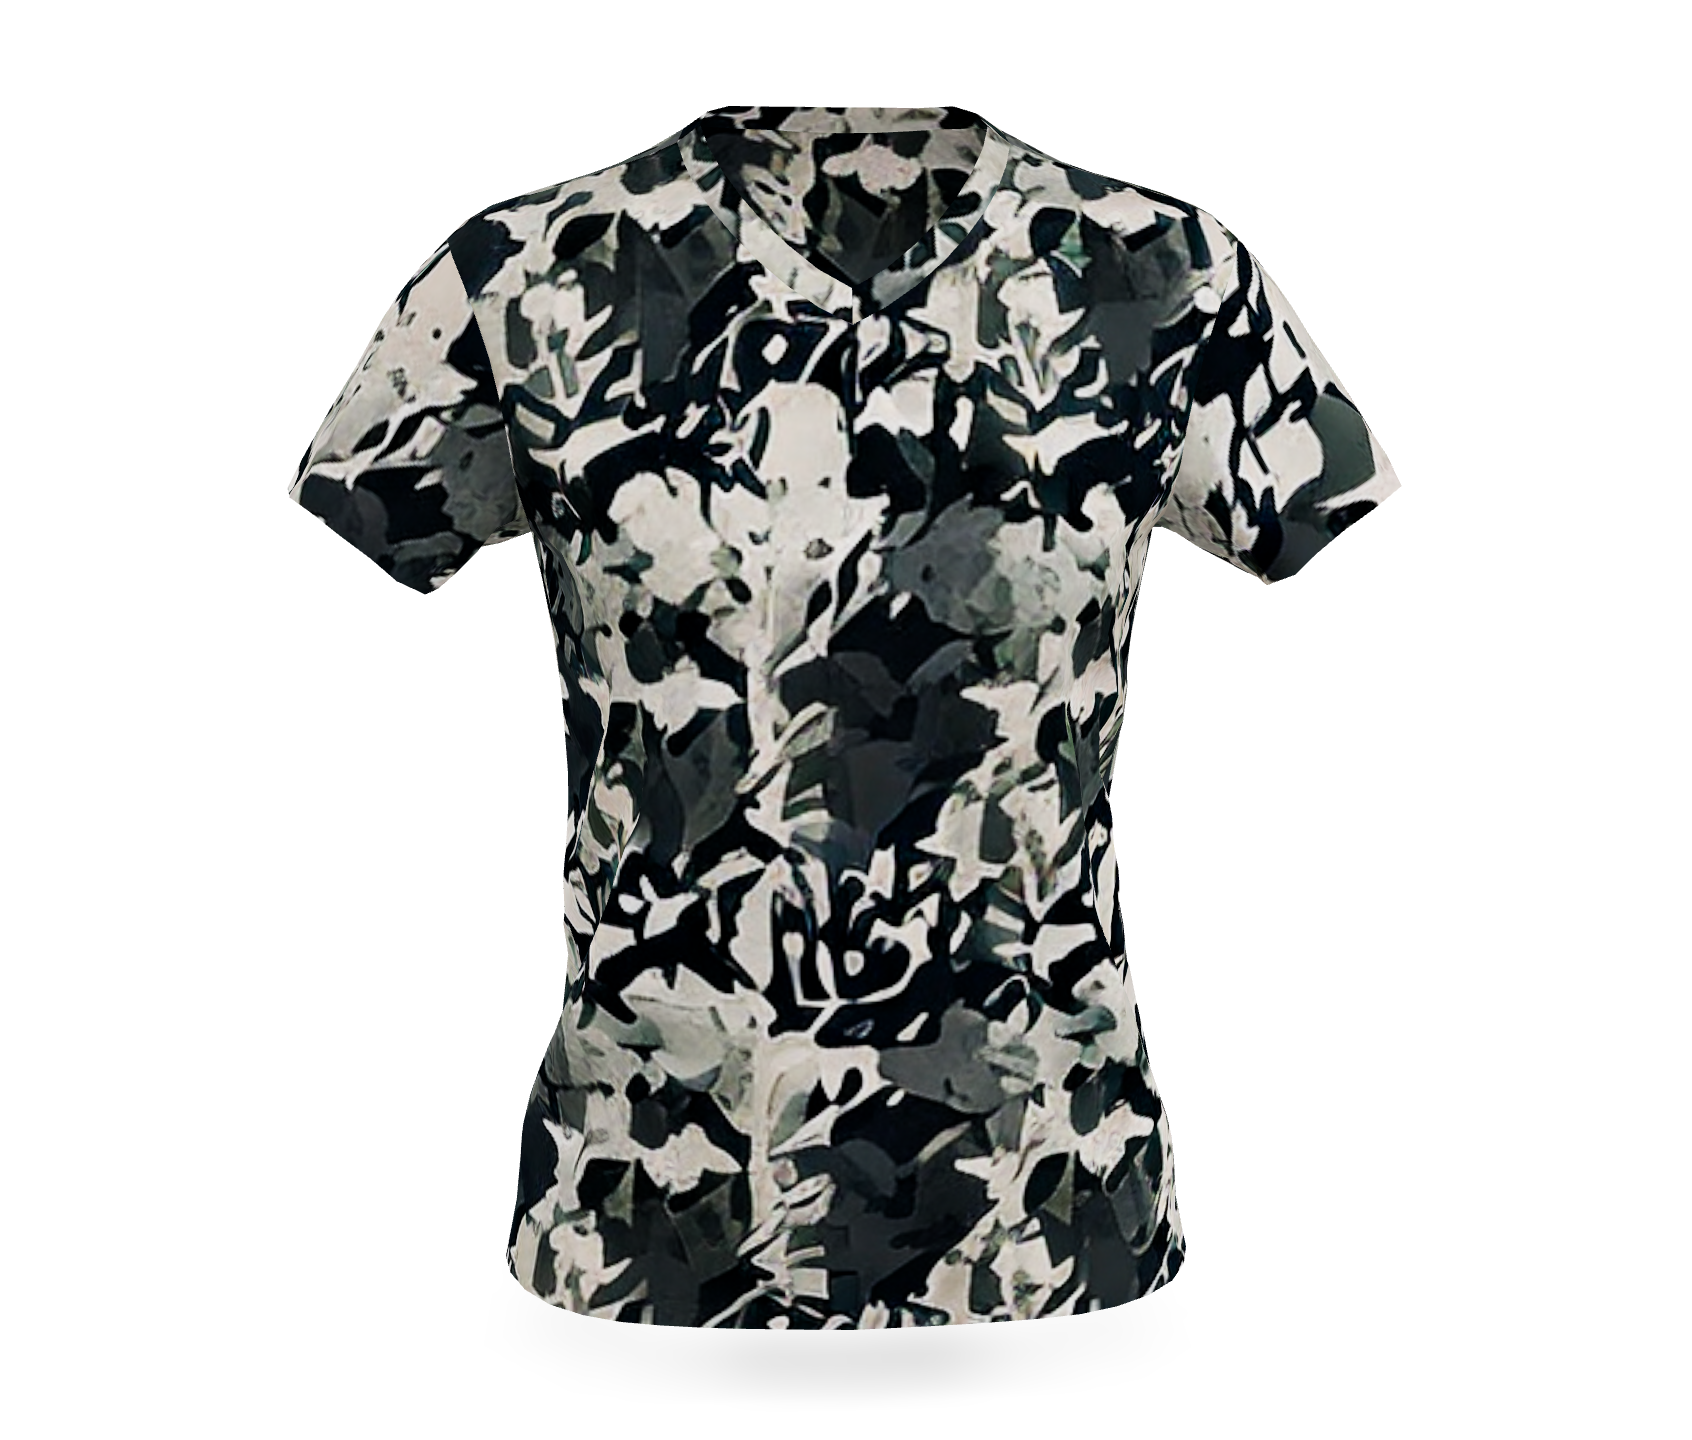
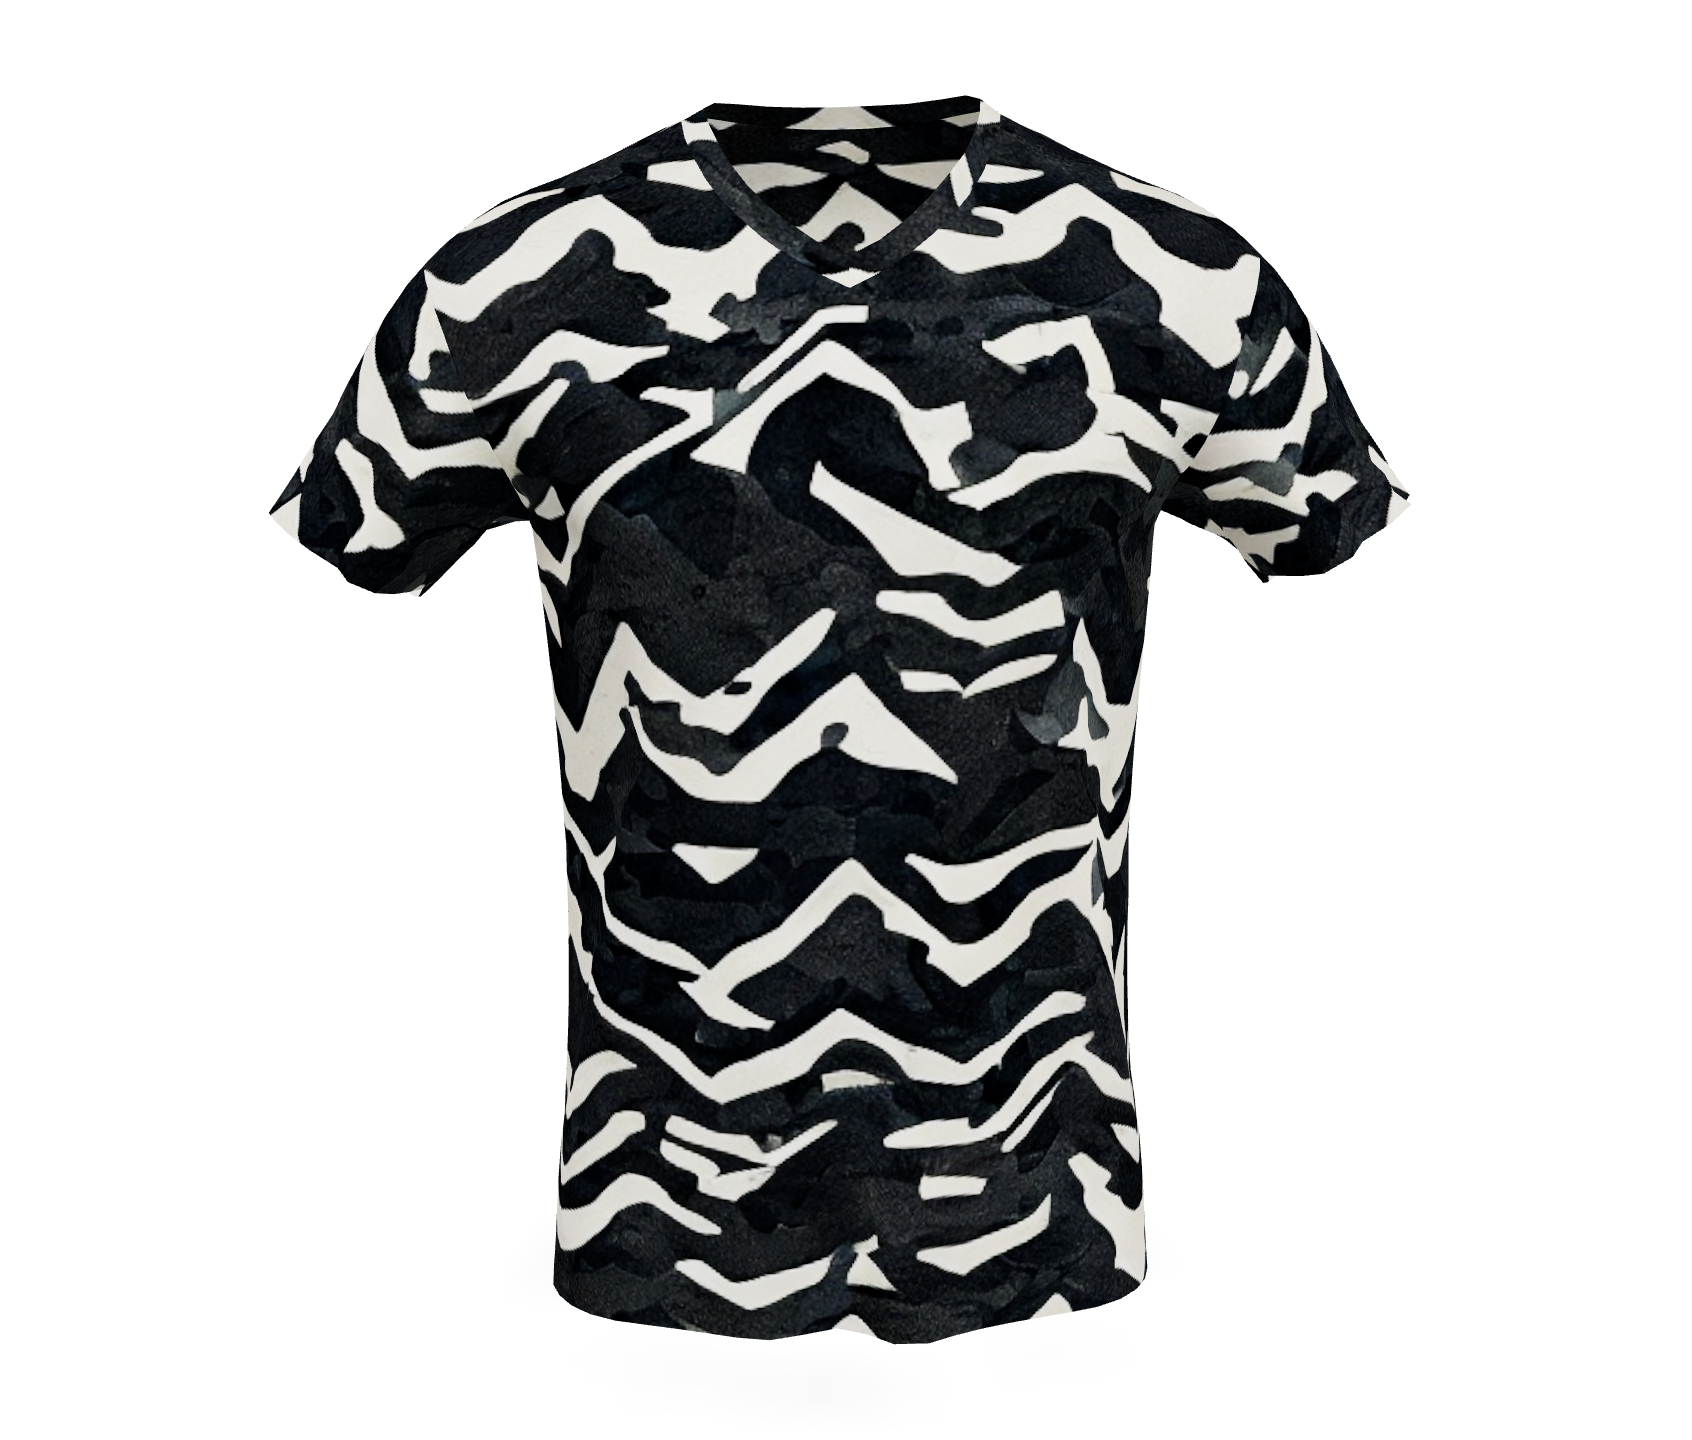
new imgs

Changed region(s): [[0.1537, 0.0625, 0.8298, 0.9688]]

diff --git a/index.html b/index.html
@@ -192,13 +192,18 @@
                             <div class="text"></div>
                           </div>
 
+                          <div class="mySlides fade">
+                            <div class="numbertext"></div>
+                            <img class="img-fluid sliderimg" src="assets/product4.png">
+                            <div class="text"></div>
+                          </div>
 
                           <div class="mySlides fade">
                             <div class="numbertext"></div>
                             <img class="img-fluid sliderimg" src="assets/product5.png">
                             <div class="text"></div>
                           </div>
-
+ 
                           <div class="mySlides fade">
                             <div class="numbertext"></div>
                             <img class="img-fluid sliderimg" src="assets/product6.png">
@@ -219,6 +224,7 @@
 
 
                           <div style="text-align:center">
+                            <span class="dot"></span> 
                             <span class="dot"></span> 
                             <span class="dot"></span> 
                             <span class="dot"></span> 
